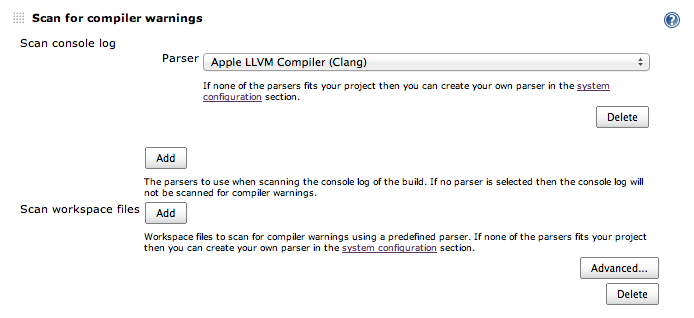
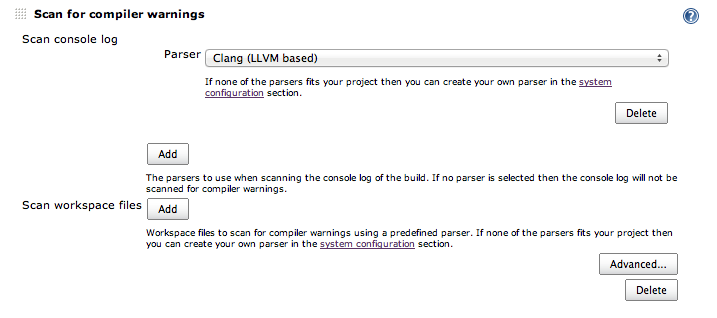
Reflect changes in warnings plug-in.
With ticket https://issues.jenkins-ci.org/browse/JENKINS-17762.

diff --git a/blogpost/Advanced-Jenkins.md b/blogpost/Advanced-Jenkins.md
@@ -275,11 +275,19 @@ Finally we call `gcovr` to generate the coverage report, outputting to `./covera
 
 #### Compiler warnings
 
-Add the "Scan for compiler warnings" post-build step and configure it to use the "Apple LLVM Compiler (Clang) parser like this:
+Add the "Scan for compiler warnings" post-build step and configure it to use the "Clang (LLVM based)" parser like this:
 
 ![Scan for compiler warnings](./images/post-build-compiler-warnings.png)
 
 It shouldn't need any further configuration.
+
+##### Update 2013-04-27: 
+
+My original post said to use the "Apple LLVM Compiler (Clang)" parser. Updates to the Warnings parser [here](https://github.com/jenkinsci/warnings-plugin/commit/702762d7650b15bf2003c7b1be02a7817ec0e800) and [here](https://github.com/jenkinsci/warnings-plugin/commit/3f9f57a88c25a359c42f0dc1b5ab4df4d1874a23) shipping in Warnings parser version 4.24 have silently renamed the "Apple LLVM Compiler (Clang)" parser to "Clang (LLVM based)", silently causing configs using "Apple LLVM Compiler (Clang)" to default to, of all things, "Acu Cobol".
+
+I've filed [this ticket](https://issues.jenkins-ci.org/browse/JENKINS-17762) and encourage you to add a sensible comment if you agree.
+
+Meanwhile, if you created any configs using the Warnings parser <= 4.23, you'll need to update then manually when you update to Warnings parser >= 4.24.
 
 #### Scan-build results
 
